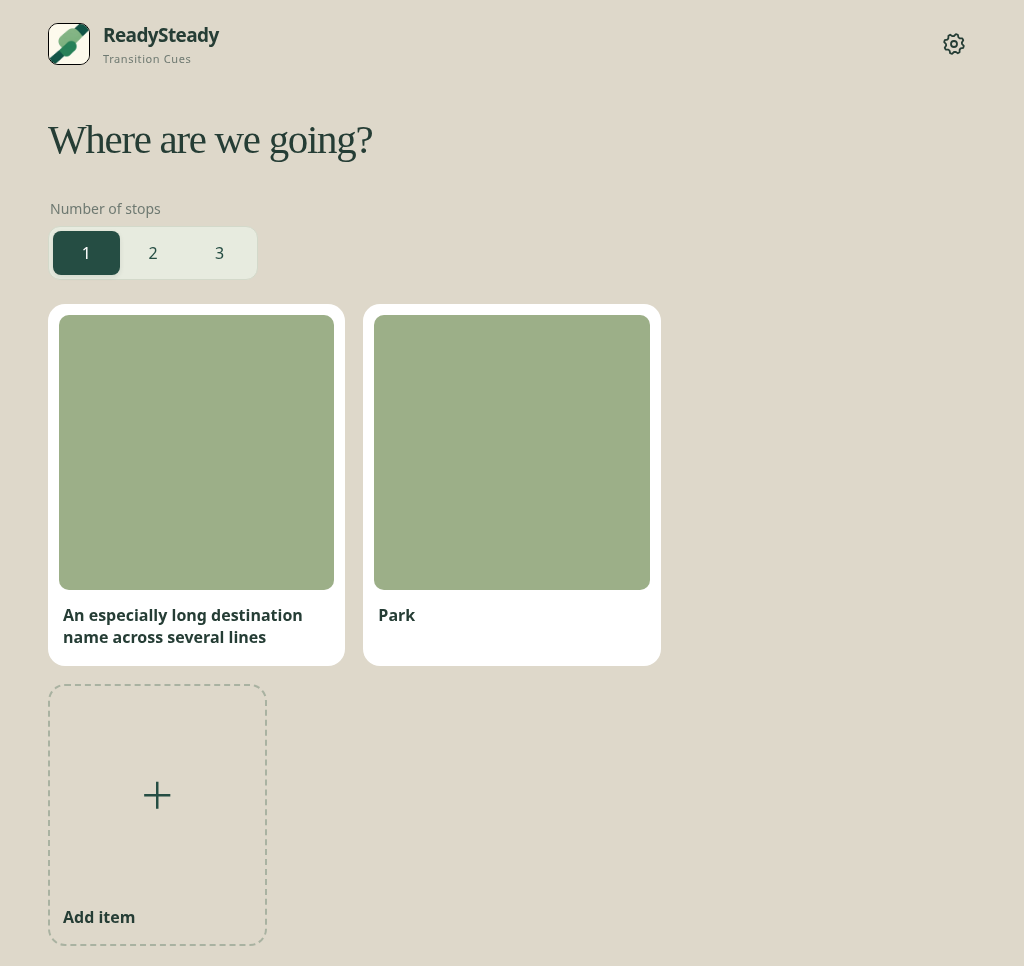
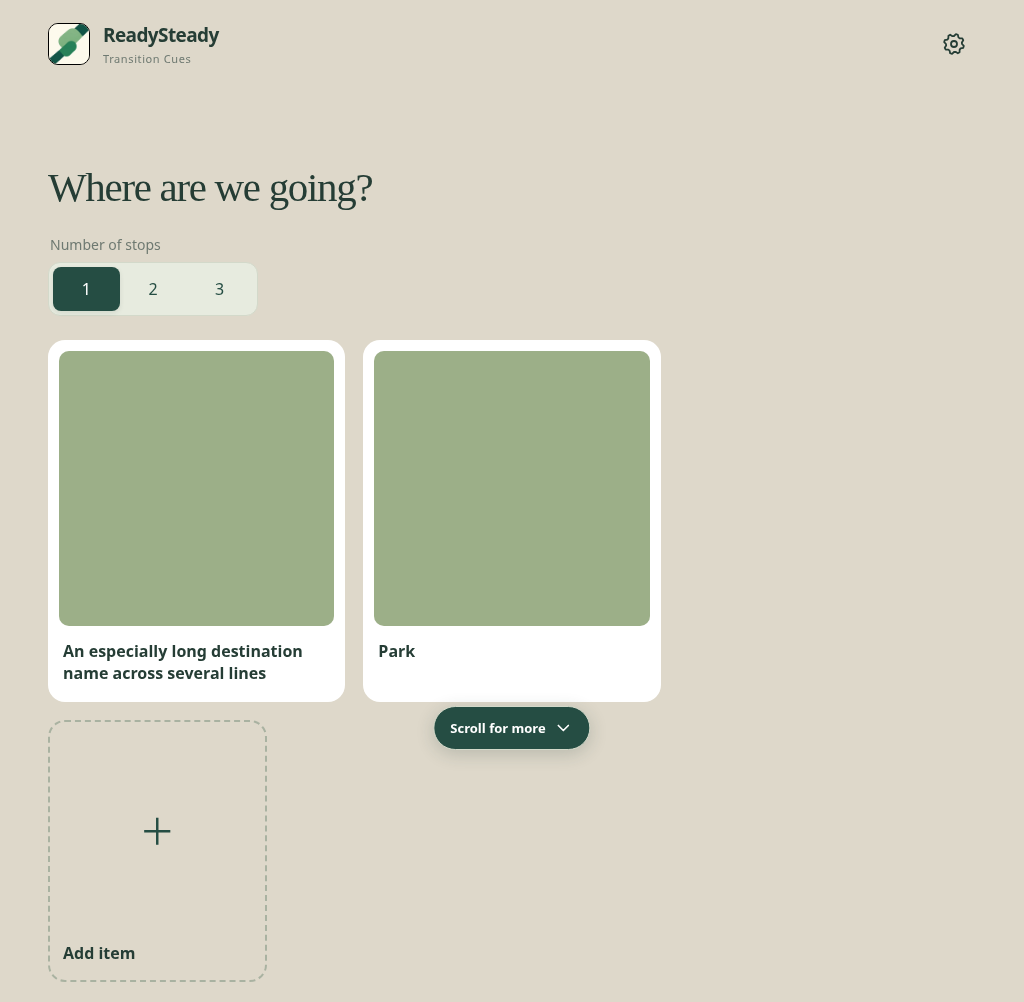
Align opening planner heading and tighten stop spacing in v1.0.32

diff --git a/transition_cues/transition-cues-web/style.css b/transition_cues/transition-cues-web/style.css
@@ -62,8 +62,8 @@
 @media(orientation:portrait) and (max-width:620px){.locked .journey-companions{flex-direction:column;gap:24px}.locked .journey-companions>section{width:100%}.locked .cue-card figcaption,.locked:is(.has-items,.has-people) .cue-card figcaption{--cue-name-size:clamp(18px,4.5vw,30px);font-size:var(--cue-name-size)}.locked .cue-card .cue-label{font-size:clamp(14px,3.5vw,22px)}}
 
 /* The planner header becomes the selection strip once a place is chosen. */
-.planner-header{border-bottom:0;min-height:88px}.planner-header+#planStep>.wizard-heading{margin-top:16px;margin-bottom:24px}.selection-header{display:block;min-height:0;padding:16px 0 0}.selection-header .plan-progress{display:flex;flex-direction:column;align-items:stretch;gap:0;margin:0;min-height:0}.selection-header .plan-thumbnails{flex:auto;width:100%}.reset-plan{align-self:flex-start;min-height:44px;padding:8px 4px;background:transparent;color:var(--muted);font-size:13px;text-decoration:underline;text-underline-offset:3px}
-@media(max-width:620px){.planner-header{min-height:80px;padding:16px 0 8px}.selection-header{min-height:0;padding:12px 0 0}.planner-header+#planStep>.wizard-heading{margin-top:12px}}
+.planner-header{border-bottom:0;min-height:136px;padding-bottom:48px}.planner-header+#planStep>.wizard-heading{margin-top:16px;margin-bottom:24px}.selection-header{display:block;min-height:0;padding:16px 0 0}.selection-header .plan-progress{display:flex;flex-direction:column;align-items:stretch;gap:0;margin:0;min-height:0}.selection-header .plan-thumbnails{flex:auto;width:100%}.reset-plan{align-self:flex-start;min-height:44px;padding:8px 4px;background:transparent;color:var(--muted);font-size:13px;text-decoration:underline;text-underline-offset:3px}
+@media(max-width:620px){.planner-header{min-height:132px;padding:16px 0 60px}.selection-header{min-height:0;padding:12px 0 0}.planner-header+#planStep>.wizard-heading{margin-top:12px}}
 
 .location-count{border:0;padding:0;margin:0 0 24px}.location-count legend{font-size:14px;margin-bottom:8px;color:var(--muted)}.location-count .stop-segments{display:grid;grid-template-columns:repeat(3,minmax(0,1fr));position:relative;isolation:isolate;width:210px;max-width:100%;gap:0;padding:4px;border:1px solid #d3d9ca;border-radius:12px;background:#e7ebdf}.stop-segments::before{content:"";position:absolute;z-index:-1;left:4px;top:4px;bottom:4px;width:calc((100% - 8px)/3);border-radius:8px;background:var(--green);box-shadow:0 2px 5px #253d351a;transition:transform .18s ease}.stop-segments:has([data-location-count="2"][aria-pressed=true])::before{transform:translateX(100%)}.stop-segments:has([data-location-count="3"][aria-pressed=true])::before{transform:translateX(200%)}.location-count button{min-width:0;min-height:44px;border-radius:8px;background:transparent;color:var(--green)}.location-count button[aria-pressed=true]{background:transparent;color:white}@media(prefers-reduced-motion:reduce){.stop-segments::before{transition:none}}
 .frequent-choices{grid-template-columns:repeat(3,minmax(0,1fr));margin-bottom:18px}.other-choices{grid-template-columns:repeat(4,minmax(0,1fr))}.locked .cue-pair.multi-stop{grid-template-columns:repeat(3,minmax(0,1fr));gap:2vw}.locked .cue-pair.stops-3{grid-template-columns:repeat(4,minmax(0,1fr))}.locked .multi-stop .cue-card figcaption{font-size:clamp(16px,2.8vw,32px)}.locked .multi-stop .cue-card .cue-label{font-size:clamp(14px,2vw,24px)}
@@ -73,3 +73,5 @@
 
 /* Keep the final action after the choices, with a cue when more content is below. */
 .shell:has(#planStep){display:flex;flex-direction:column;min-height:100dvh;padding-bottom:max(20px,env(safe-area-inset-bottom))}.shell:has(#planStep)>.header,#planStep{flex-shrink:0}.wizard-actions{position:static;bottom:auto;margin: auto 0 0;padding-top:24px;flex-shrink:0}.scroll-cue{position:fixed;z-index:5;left:50%;bottom:max(18px,env(safe-area-inset-bottom));transform:translateX(-50%);display:inline-flex;align-items:center;justify-content:center;gap:8px;min-height:44px;padding:10px 16px;border:1px solid #d3d9ca;border-radius:24px;background:var(--green);color:white;box-shadow:0 4px 18px #253d3533;font-size:13px;font-weight:600;white-space:nowrap}.scroll-cue svg{width:20px;height:20px;flex:none}body:has(dialog[open]) .scroll-cue{display:none}
+
+.planner-header+#planStep[data-step="0"]>.wizard-heading{margin-bottom:12px}

diff --git a/tests/browser_display.py b/tests/browser_display.py
@@ -74,11 +74,14 @@ def run(engine):
                 page.locator('#uploadCancel').click()
                 expect(page.locator('#uploadDialog')).not_to_be_visible()
                 expect(page.locator('[data-kind="places"]')).to_have_count(2)
+                page.evaluate('window.scrollTo(0,0)')
+                opening_heading_y=page.locator('#planHeading').bounding_box()['y']
                 page.screenshot(path='/tmp/readysteady-step-places.png',full_page=True)
                 page.get_by_role('button',name=names[0][1],exact=True).click()
                 expect(page.locator('#planStep')).to_have_attribute('data-step','1')
                 expect(page.locator('[data-kind="places"]')).to_have_count(0)
                 expect(page.get_by_role('heading',name='How are we travelling',exact=True)).to_be_visible()
+                assert abs(page.locator('#planHeading').bounding_box()['y']-opening_heading_y)<1,(opening_heading_y,page.locator('#planHeading').bounding_box(),page.locator('.header').bounding_box())
                 expect(page.get_by_role('heading',name='Where are we going?',exact=True)).to_have_count(0)
                 expect(page.locator('.plan-thumbnail')).to_have_count(1)
                 expect(page.locator('.brand,.nav,#previousStep')).to_have_count(0)
@@ -93,6 +96,7 @@ def run(engine):
                 expect(page.locator('#planStep')).to_have_attribute('data-step','2')
                 expect(page.locator('.plan-thumbnail')).to_have_count(2)
                 expect(page.get_by_role('heading',name='Who is coming along?',exact=True)).to_be_visible()
+                assert abs(page.locator('#planHeading').bounding_box()['y']-opening_heading_y)<1,(opening_heading_y,page.locator('#planHeading').bounding_box(),page.locator('.header').bounding_box())
                 expect(page.get_by_role('heading',name='What is coming with us',exact=True)).to_be_visible()
                 expect(page.locator('#planStep .optional-label')).to_have_count(2)
                 expect(page.get_by_text('Choose up to 4 items',exact=True)).to_be_visible()

diff --git a/tests/container_smoke.py b/tests/container_smoke.py
@@ -81,5 +81,5 @@ print('PASS: replacement container preserves library and images in /data')
 
 if __name__ == '__main__':
     parser = argparse.ArgumentParser()
-    parser.add_argument('--image', default='transition-cues-ha-check:1.0.31')
+    parser.add_argument('--image', default='transition-cues-ha-check:1.0.32')
     run(parser.parse_args().image)

diff --git a/transition_cues/CHANGELOG.md b/transition_cues/CHANGELOG.md
@@ -1,5 +1,10 @@
 # Changelog
 
+## 1.0.32
+
+- Align the opening Where are we going? heading with subsequent planner headings on phones and tablets.
+- Reduce the gap between the opening heading and Number of stops.
+
 ## 1.0.31
 
 - Keep Show the plan at the bottom of the page after all choices, instead of floating above them.
